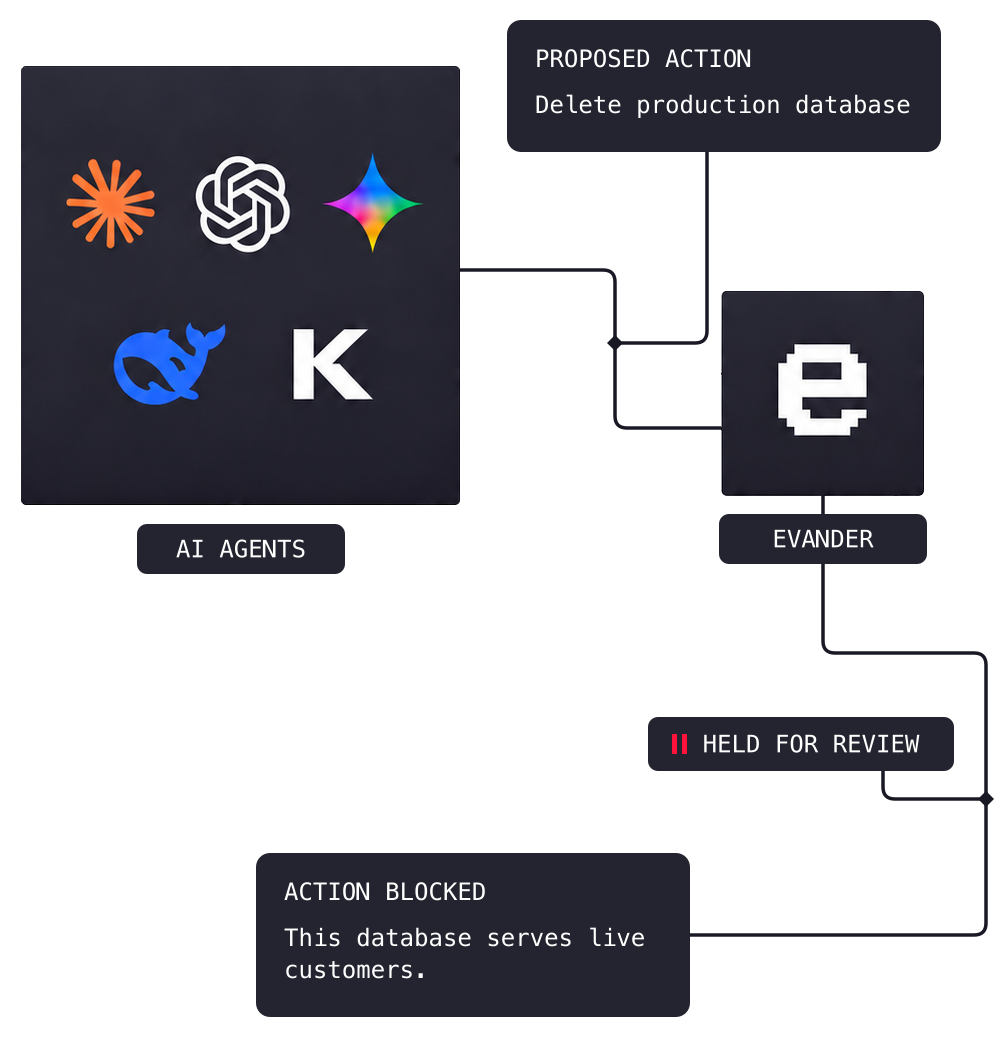
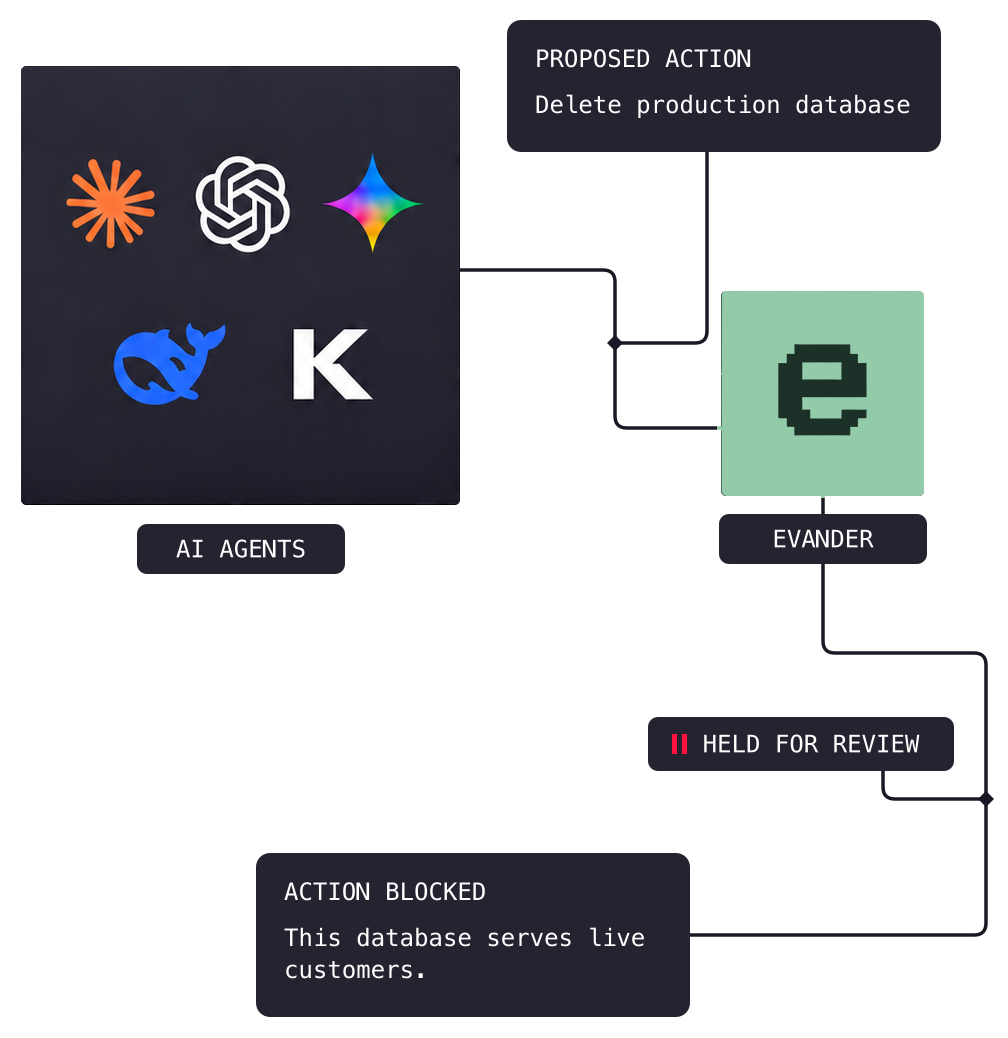
Apply mint green to the Evander brand accents

Changed region(s): [[0.7073, 0.2775, 0.9226, 0.4933]]

diff --git a/public/evander-assets/header-home.css b/public/evander-assets/header-home.css
@@ -28,6 +28,8 @@
 }
 
 :root {
+  --evander-accent: #93cbaa;
+  --evander-accent-ink: #1b3127;
   --evander-footer-width: 660px;
 }
 footer#footer {
@@ -42,4 +44,15 @@ footer.site > .wrap {
     grid-template-columns: repeat(3, max-content);
     justify-content: space-between;
   }
+}
+
+#main .home-status span,
+#main .architecture-actions .architecture-primary,
+#main .trace-controls button[aria-pressed=true] {
+  background: var(--evander-accent);
+  color: var(--evander-accent-ink);
+}
+body ::selection {
+  background: var(--evander-accent);
+  color: var(--evander-accent-ink);
 }

diff --git a/src/styles/global.css b/src/styles/global.css
@@ -54,7 +54,7 @@
   --action-padding:24px;
   --action-gap:12px;
   --action-radius:var(--r);
-  --butter:#F4EA96;
+  --butter:var(--evander-accent,#93cbaa);
   --action-background:var(--butter);
   --action-foreground:var(--ink);
   --action-hover:#E9DB75;
